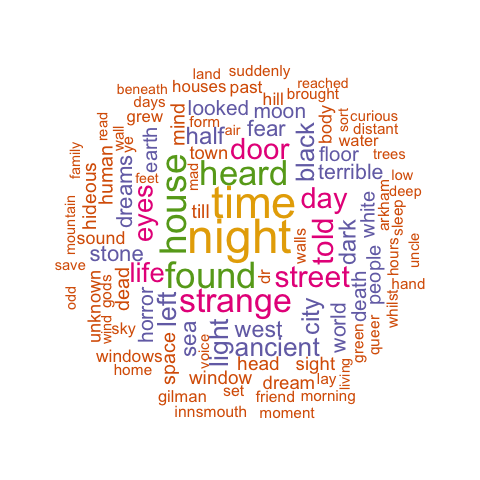
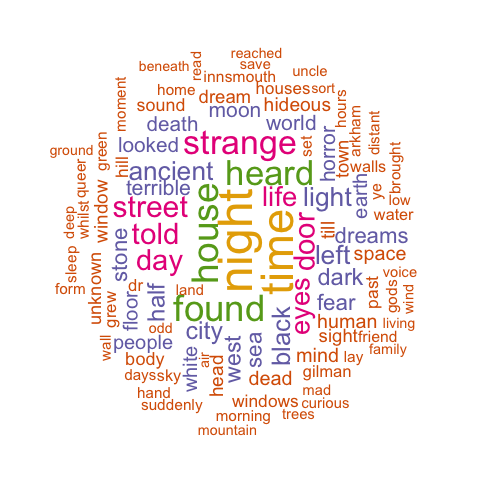
Edits

Changed region(s): [[0.0938, 0.0938, 0.875, 0.9062]]

diff --git a/README.md b/README.md
@@ -4,7 +4,7 @@
 ----
 
 
-### [Project Description](doc/)
+### [Project Description](doc/project_description.Rmd)
 
 
 Term: Spring 2018
@@ -36,12 +36,14 @@ From the visualizations, we can see that EAP's sentence length is more variable 
 
 ### Pronouns
 Before removing "stop words" from each authors' pieces, I was curious to see which authors used certain personal pronouns more than others.
+
 ![](./figs/pronounplot.png)
 
 From the plot, we can see that MWS and EAP tend to talk about themselves more often than HPL. MWS writes about other women (her, she) more frequently than the male authors, perhaps not surprisingly. HPL seems to rarely refer to women in his work, though he is also seemingly less likely than the other authors to use pronouns in his writing at all.
 
 ### Most Common Words
 After removing the "stop words" from each author's text to make analysis a bit more exciting, I visualized each author's top ten words used in his/her work.
+
 ![](./figs/top10.png)
 
 Some of the authors' top ten most common words overlap; for instance, all three authors like to write about "time" and "day." We can also see, however, that the two male authors EAP and HPL have slightly more overlapping top words than with MWS. Both male authors frequently use the words "night" and "found." Other than the words all three authors have in common, EAP overlaps with MWS on the word "eyes" and HPL doesn't overlap with MWS at all. Given that MWS's top three words used are "life," "love," and "heart," we may assume that the content of MWS's work might be more emotional in nature compared to her male counterparts. Her frequent use of the name "Raymond" may be from her work "The Last Man."
@@ -59,7 +61,14 @@ To visualize each author's most frequent words further, I created three wordclou
 
 ![](./figs/eapWC.png)
 
-The wordclouds allow us to see that MWS's work is almost certainly more emotional than her counterparts'. Her work tends to paint a seemingly beautiful picture of nature, earth, family combined with suffering and grief. HPL's wordcloud exemplifies his use of creepier stories in his work. By linking together a few words like "street," "door," "horror," "dark," "terrible," "dream," "hideous," we can almost recreate a story ourselves. EAP's wordcloud doesn't immediately introduce an obvious (to me) theme other than potentially something spiritual, so I'll dig further through sentiment analysis next.
+The wordclouds allow us to see that MWS's work is almost certainly more emotional than her counterparts'. Her work tends to paint a seemingly beautiful picture of nature, earth, family combined with suffering and grief. HPL's wordcloud exemplifies his use of creepier stories in his work. By linking together a few words like "street," "door," "horror," "dark," "terrible," "dream," "hideous," we can almost recreate a story ourselves. EAP's wordcloud doesn't immediately introduce an obvious (to me) theme other than potentially something spiritual, so I'll dig further through sentiment analysis.
+
+### TF-IDF
+After looking into each author's top 10 words, I want to identify each author's most used word that is also unique to his/her work. The "tf-idf" is known as the product of term and inverse frequency. The "tf" is the number of times a word appeared in a document or set of documents. The "idf" measures this frequency in relation to others. The weight for more commonly used words is decreased and the weight for words that aren't used very much in a collection of texts is increased. Thus, the "tf-idf" is "intended to measure how important a word is to a document in a collection of documents" ([TidyTextMining](https://www.tidytextmining.com/tfidf.html)). Words that MWS uses frequently that aren't used as much by the other authors are in blue; EAP's most common and unique words are in red and HPL's are in green.
+
+![](./figs/tfidf.png)
+
+Many of the unique and important words that the authors use are names (MWS used "perdita", "adrian", "raymond" and "idris" while HPL uses "gilman"and "wilbur"). EAP seems to be the only author that uses French frequently in his writing. These charts give us a good idea of what words we would look for if we needed to predict which author wrote a specific piece. Next, I turn to sentiment analysis to understand the emotions and feelings behind each author's work.
 
 ### Sentiment Analysis
 Given all three authors have a known tendency toward spooky writing, I first wanted to assess whether sentiments of each author's words were more positive or negative. I used the "bing" lexicon to assess positive and negative sentiments and plotted the net sentiment of each word. The top left graph shows us how many negative and positive words the authors use overall. The graph to the right shows us the top ten most positive and most negative words used by all authors, and lastly the bottom chart illuminates how many words contributed most to positive and negative sentiment, per author.
@@ -87,4 +96,5 @@ Because "love" is a word quite commonly used by MWS, I look a bit further into w
 
 The top plot shows the most common words MWS uses before "love" in her work. Often, she's talking about her own love, and the words that follow seem primarily positive. The second visualization again cements the notion that MWS is usually speaking about something positive when she writes about love. However, it's clear that the "afinn" lexicon couldn't fully represent sentiments of all of the preceding words; for instance, the words "mutual" and "love" combined normally would denote positivity, but "afinn" doesn't have a sentiment for "mutual." I also noticed that MWS sometimes speaks about "unrequited" love, another word that the "afinn" lexicon doesn't define as positive or negative.
 
-### References 
+### References
+Some ideas and code were borrowed from [Text Mining in R](https://www.tidytextmining.com/) as well as Gokhan Ciflikli's [blog](https://www.gokhanciflikli.com/post/weinstein-effect/).
